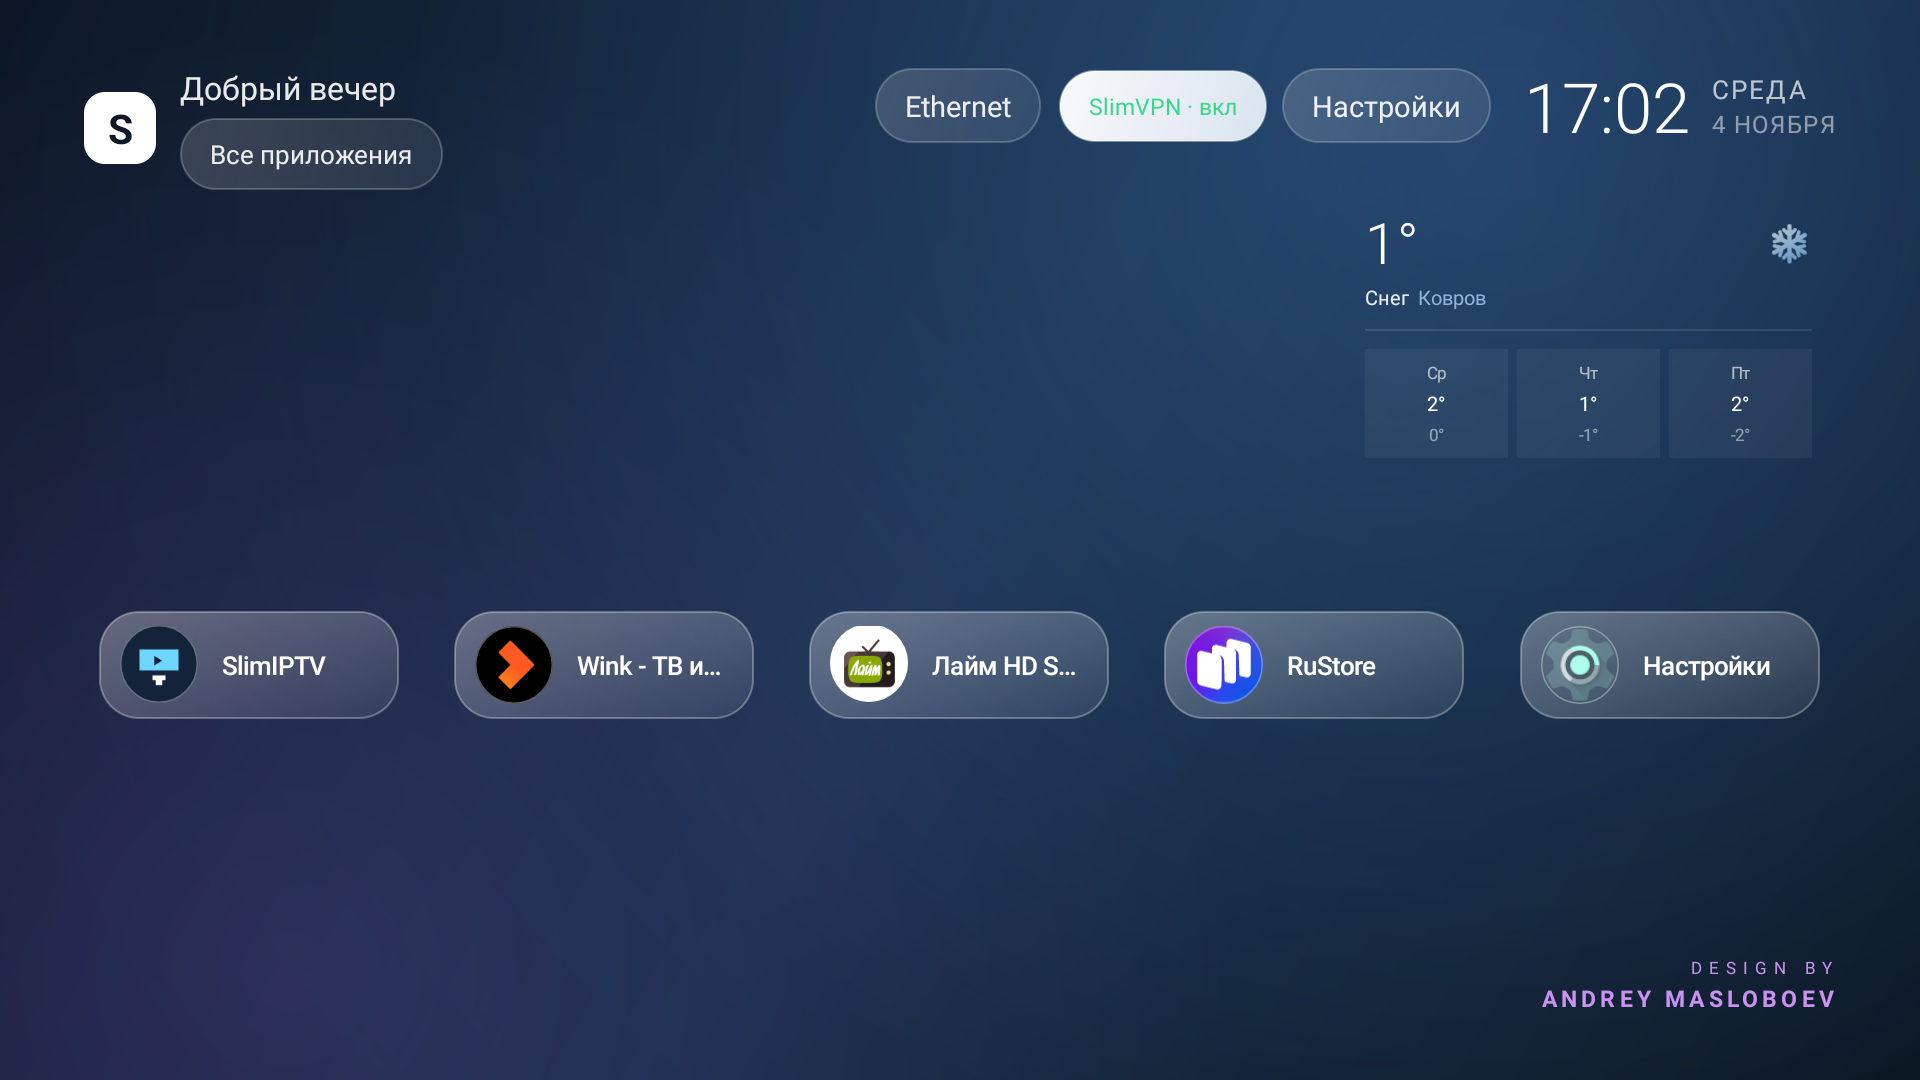
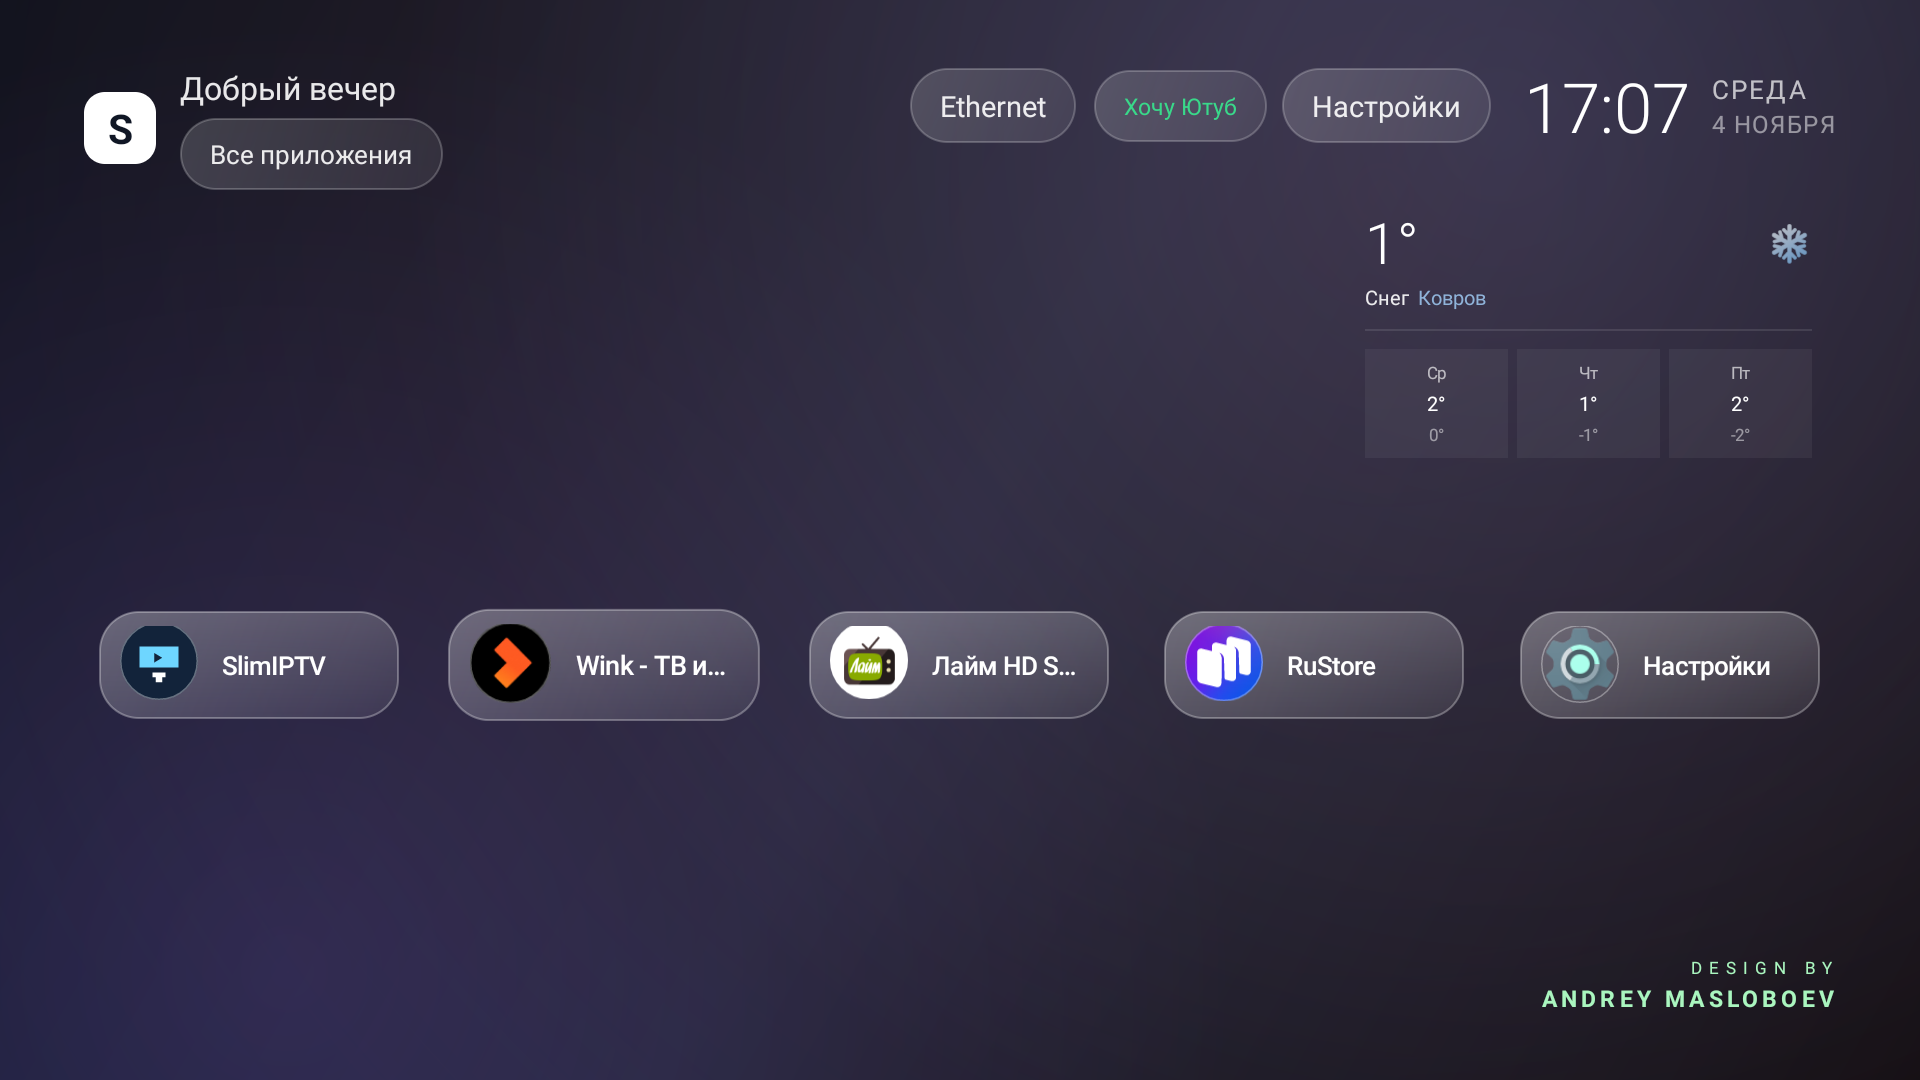
SlimHome 3.1: кнопка «Хочу Ютуб» вместо SlimVPN

diff --git a/app/src/main/java/com/slimhome/launcher/MainActivity.java b/app/src/main/java/com/slimhome/launcher/MainActivity.java
@@ -650,7 +650,7 @@ public class MainActivity extends Activity {
                 }
             }
         } catch (Throwable ignored) { }
-        tvVpn.setText(on ? "SlimVPN · вкл" : "SlimVPN · выкл");
+        tvVpn.setText("Хочу Ютуб");
         tvVpn.setTextColor(on ? Color.parseColor("#FF39D98A") : Color.parseColor("#FFFF6B6B"));
     }
 
